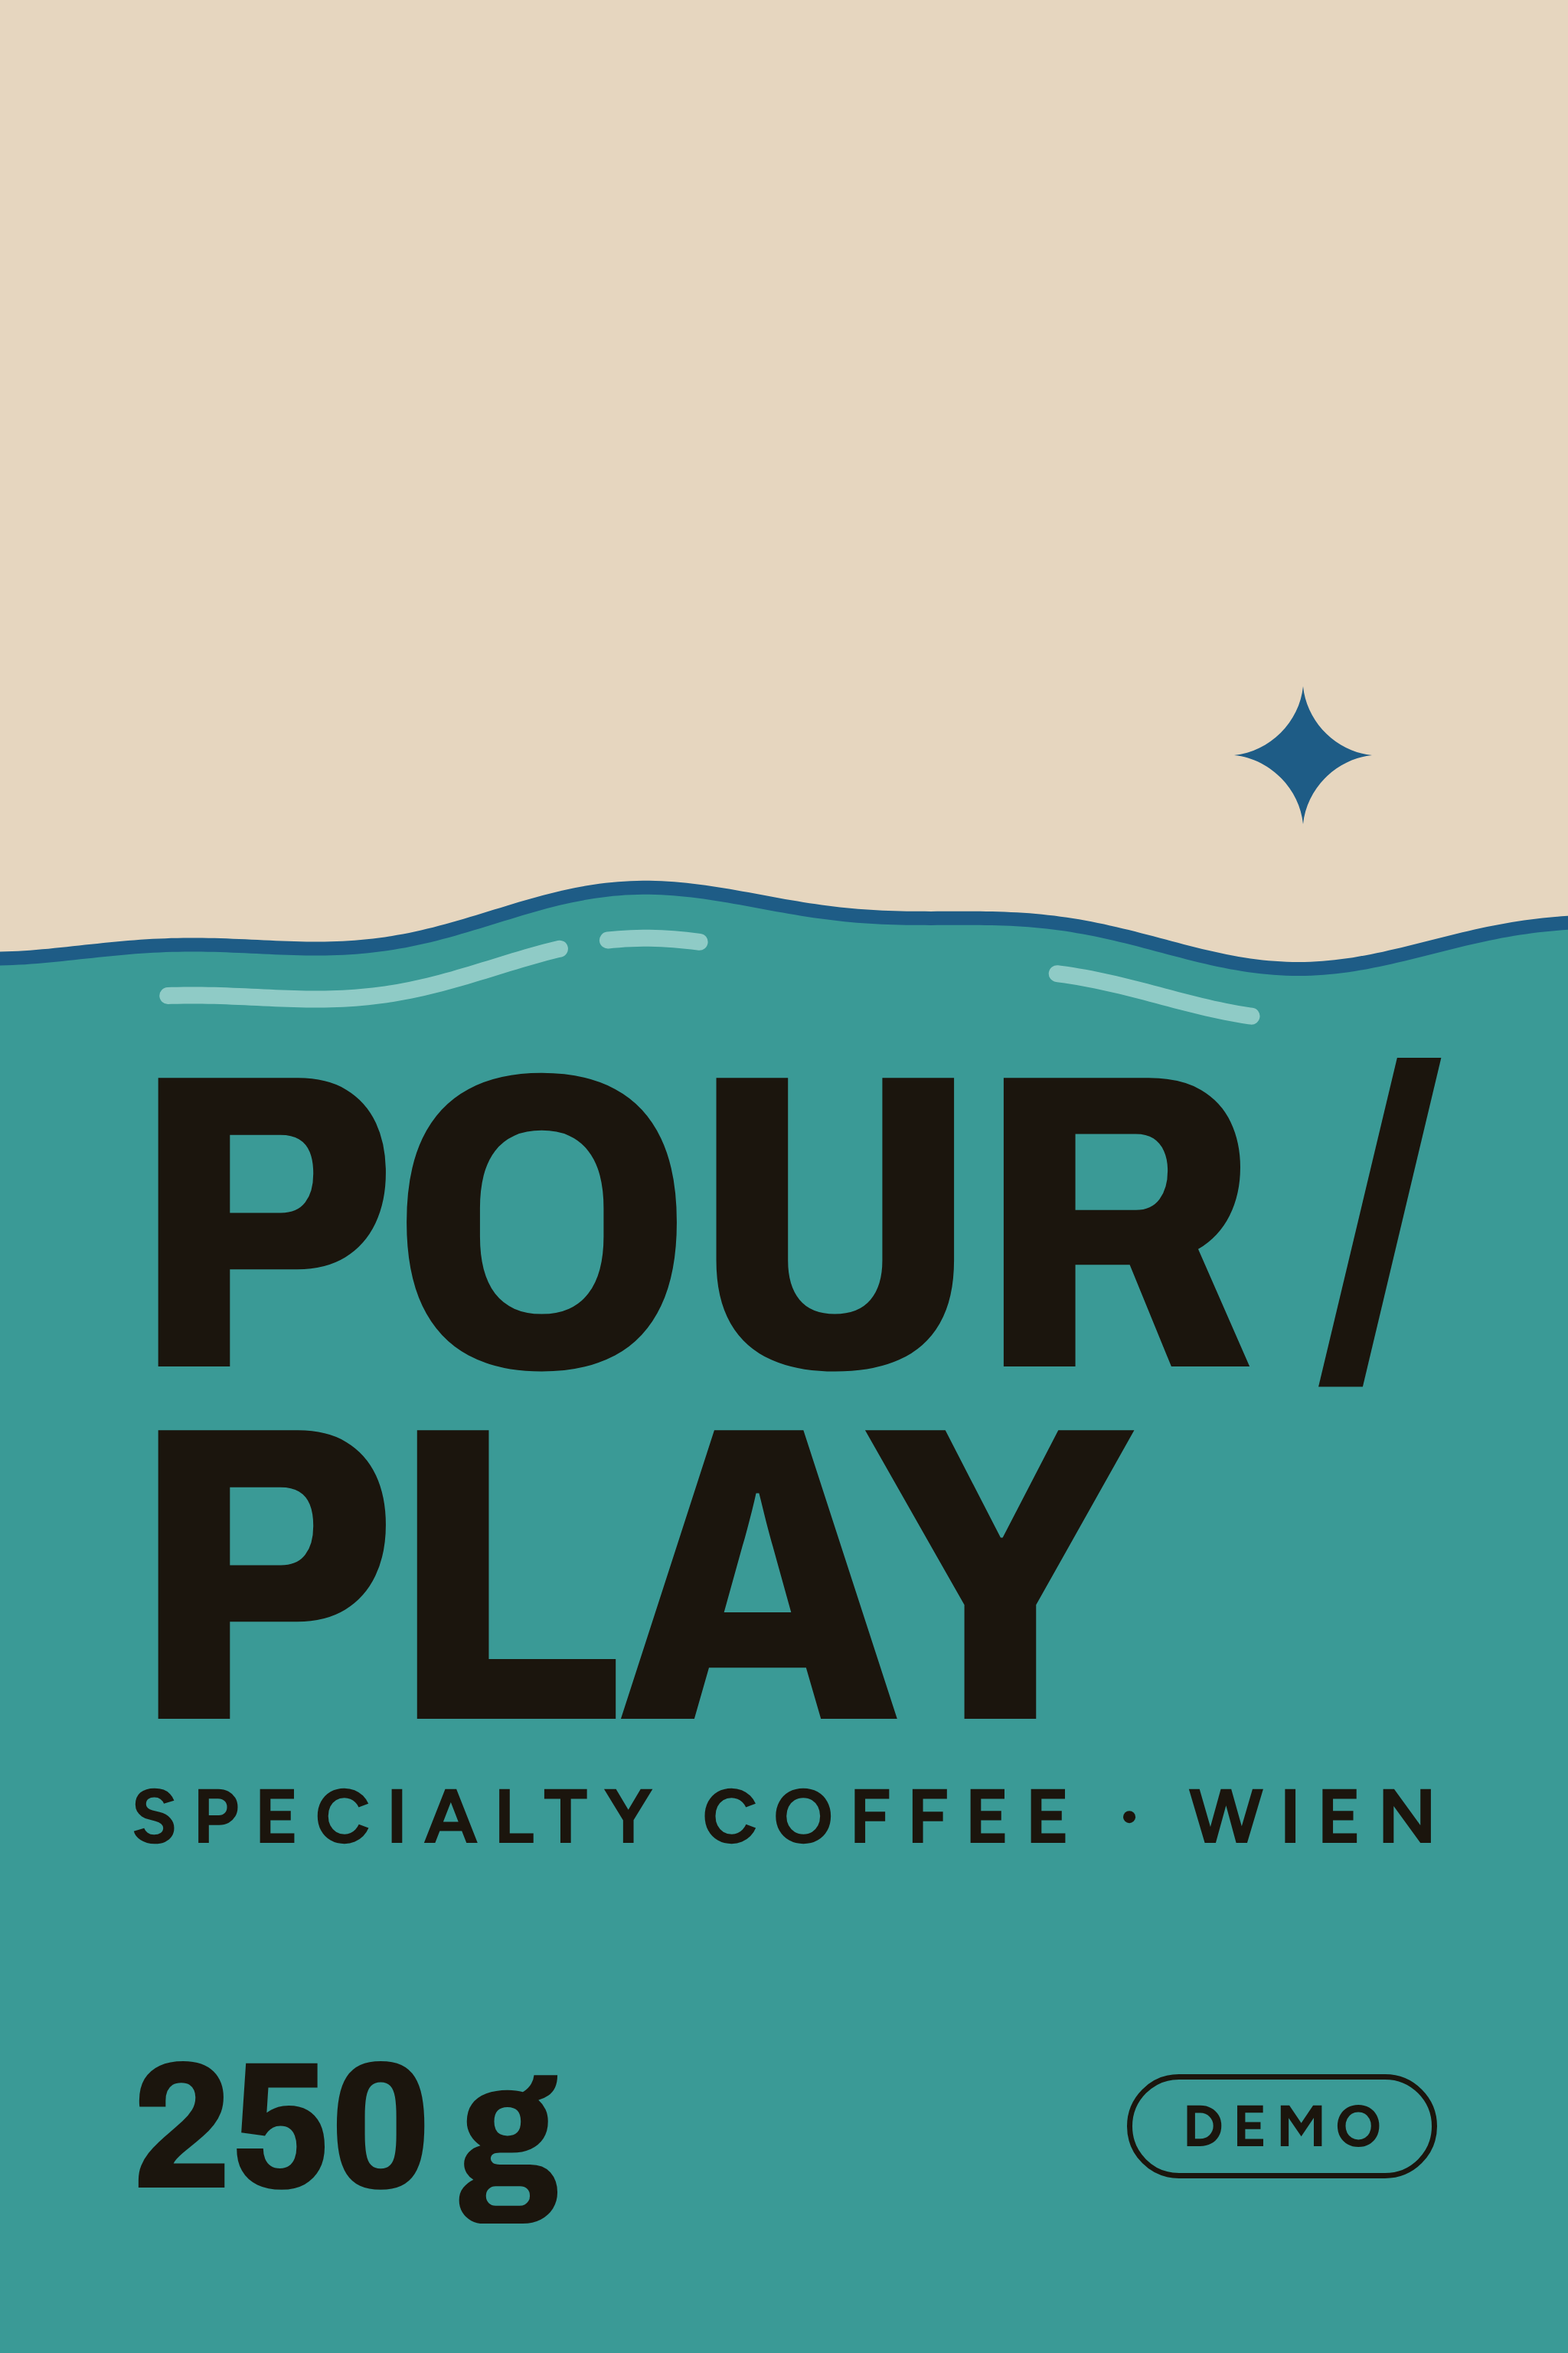
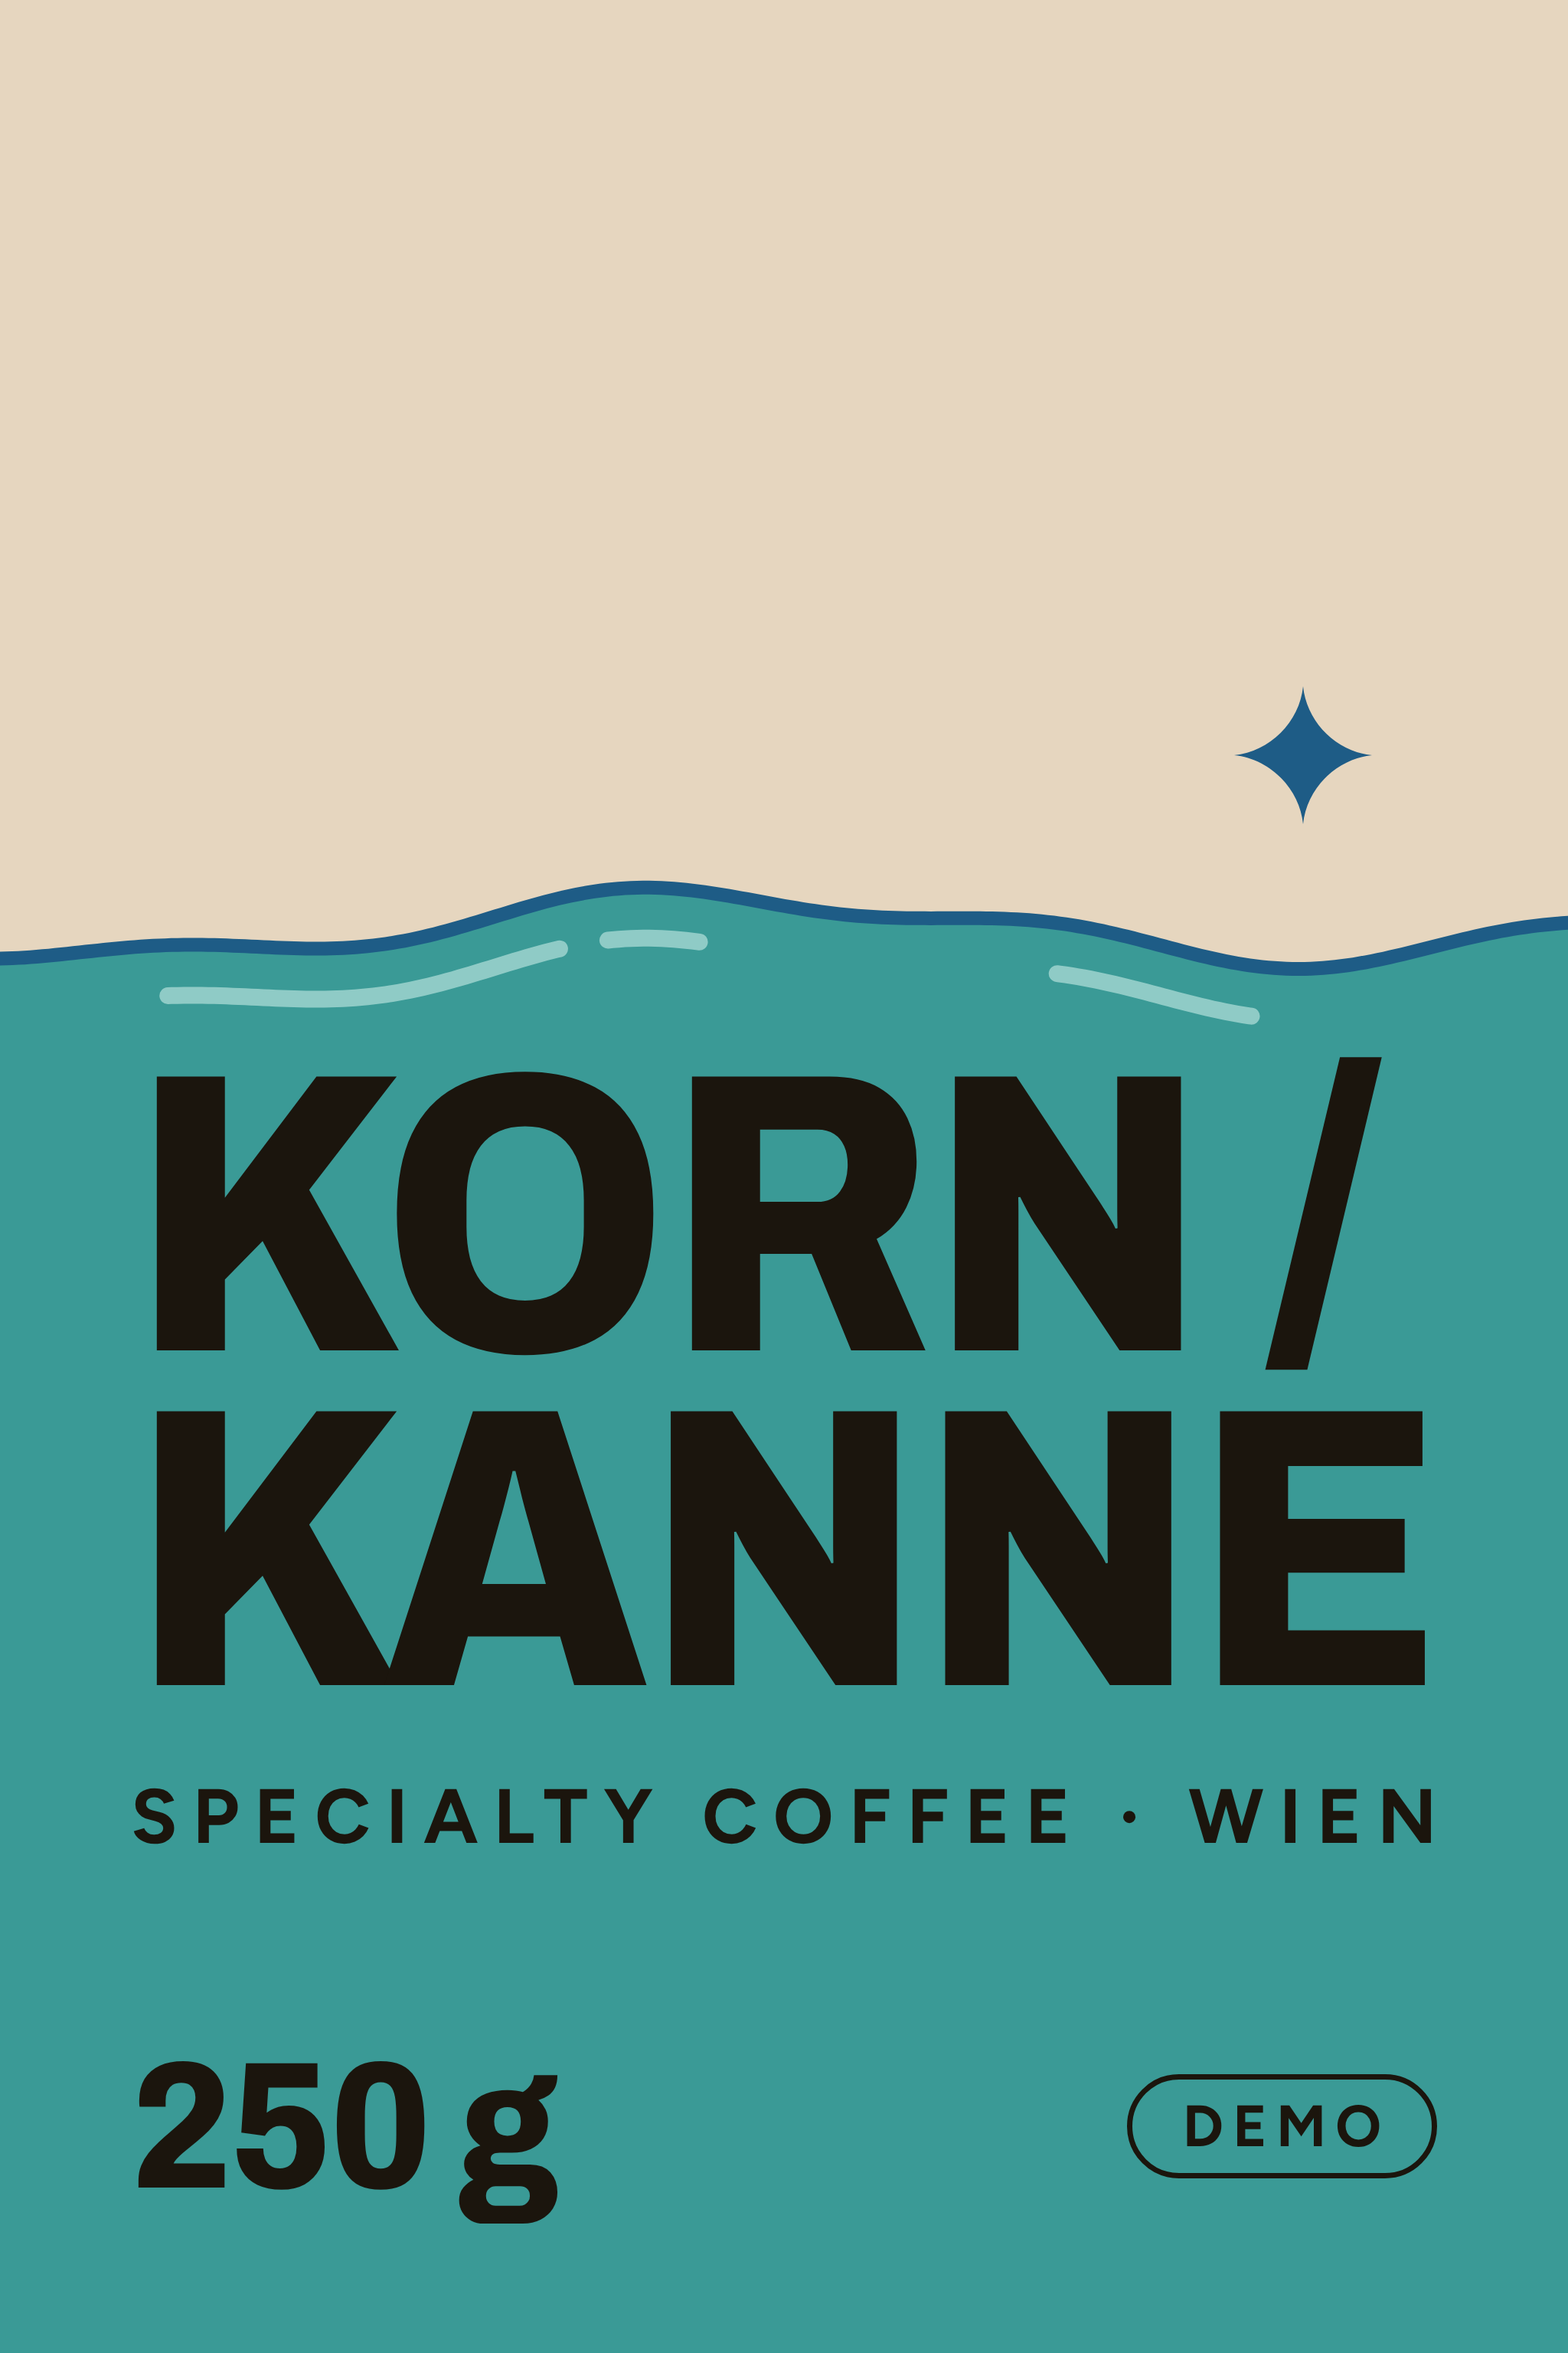
Kafa skrol: bag labels re-exported with the KORN / KANNE brand
Claude-Session: https://claude.ai/code/session_01MLvkSUQgM2CLCfn1RkP3Pn

Changed region(s): [[0.0938, 0.4375, 0.9375, 0.75]]

diff --git a/studio/kafa-skrol/dizajn/etiketa.html b/studio/kafa-skrol/dizajn/etiketa.html
@@ -157,9 +157,12 @@ body{width:2048px;height:3072px;overflow:hidden}
 
     const SAFE = 2048 - 2 * 171;                  // 1706 px
     const brand = document.getElementById('brand');
-    const l1 = brand.firstElementChild;
-    l1.style.display = 'inline-block';
-    fit(l1, SAFE); brand.style.fontSize = l1.style.fontSize; l1.style.fontSize = ''; l1.style.display = '';
+    // širi od dva reda imena staje tačno u sigurnu zonu (kod KORN / KANNE je to drugi red)
+    const lines = [...brand.children];
+    lines.forEach(l => { l.style.display = 'inline-block'; });
+    const widest = lines.reduce((a, b) => (b.getBoundingClientRect().width > a.getBoundingClientRect().width ? b : a));
+    fit(widest, SAFE); brand.style.fontSize = widest.style.fontSize; widest.style.fontSize = '';
+    lines.forEach(l => { l.style.display = ''; });
     const sub = document.getElementById('sub');
     sub.style.display = 'inline-block';
     // širina bez poslednjeg razmaka slova

diff --git a/studio/kafa-skrol/dizajn/etiketa.md b/studio/kafa-skrol/dizajn/etiketa.md
@@ -1,4 +1,6 @@
-# Etiketa za kese (Z4): POUR / PLAY · kafa-skrol
+# Etiketa za kese (Z4): KORN / KANNE · kafa-skrol
+
+> 23.10.2026: ime je promenjeno iz POUR / PLAY (brend iz referentnog videa) u izmišljeno KORN / KANNE. Sada je drugi red širi, pa skript ime podešava po širem redu. Mere u tabeli ispod važe za staro ime.
 
 Dizajner, 23.10.2026. Ovo je predaja za `blender-umetnik` preko direktora. Zadatak je Z4 iz `plan-izrade.md`: jedna etiketa u tri boje za `scripts/blender/kafa/bags.py`.
 
